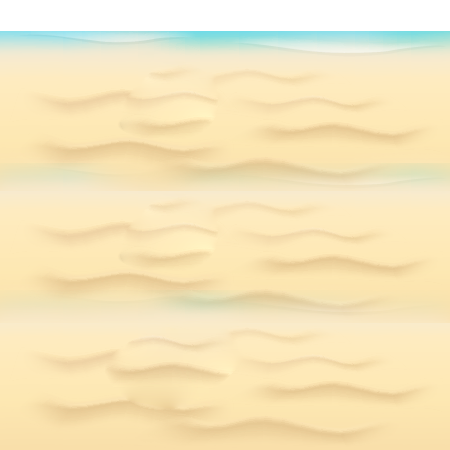
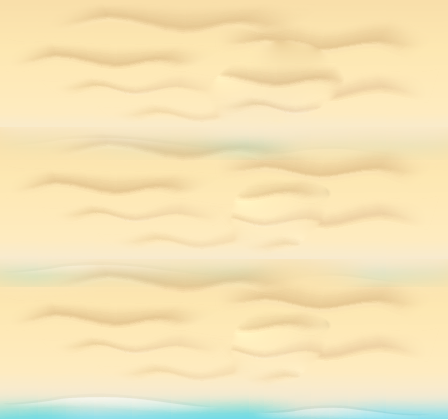
BugFix varias funciones simultaneas + altura lugares

diff --git a/js/ungrid.js b/js/ungrid.js
@@ -1,7 +1,14 @@
 const d = document
 let templateOn, template = ["archive","home","page"]
 
-function ungrid(namesArray,posXArray,posYArray,backgroundSelector,backgroundHeight) {
+function UnGrid(namesArray,posXArray,posYArray,backgroundSelector,backgroundHeight) {
+
+  this.namesArray = namesArray;
+  this.posXArray = posXArray;
+  this.posYArray = posYArray;
+  this.backgroundSelector = backgroundSelector;
+  this.backgroundHeight = backgroundHeight;
+
   // controla el template activo
   templateOn = template[1]
   //
@@ -10,43 +17,40 @@ function ungrid(namesArray,posXArray,posYArray,backgroundSelector,backgroundHeig
   let names = d.querySelectorAll("ul.products li a h3")
   let name,product,x,y,found,foundIndex
   // estilos base
-  d.querySelector(backgroundSelector).style.height = '100vh'
+  d.querySelector(backgroundSelector).style.minHeight = '100vh'
   // ejecuta el mapeo
   if (!on) {
 
     console.log("No se esta ejecutando UnGrid")
 
   } else if (on) {
-
-    console.log("Main Iter: " + i)
     //itera la cantidad de objetos que encuentre en el template
     for (var i = 0; i < names.length; i++) {
+      // products[i].style.transform = y
       // sueltalos
-      products[i].style.transition = "4s"
-      products[i].style.display = "none"
-      products[i].style.opacity = 0
+      products[i].style.transition = "1ss"
+      // products[i].style.display = "none"
+      // products[i].style.opacity = 0
       products[i].style.position = "absolute"
-      products[i].style.width = "90px"
+      products[i].style.width = "9%"
       name = names[i].innerHTML
-      // busca si el argumento se encuentra en el DOM
+      //
       found = namesArray.includes(name)// true or false
-      foundIndex = namesArray.indexOf(name)
+      foundIndex = namesArray.indexOf(name)// sequence index
       // itera sobre el grid
       if (found === false) {
 
         console.log(name + ": not found!");//debug
 
-      } else if (found === true) {//if object is found
+      } else if (found === true) {
 
-        x = "translateX("+ posXArray[foundIndex] +"%)"
-        y = "translateY("+ posYArray[foundIndex] +"%)"
+        x = "translateX("+ posXArray[foundIndex]+")"
+        y = posYArray[foundIndex]
         console.log("Found: " + names[i].innerHTML + "| Found Index: " + foundIndex);//debug
-        products[i].style.transition = "1s"
-        products[i].style.opacity = 1
-        products[i].style.bottom = "50px"
+        // products[i].style.opacity = 1
         products[i].style.display = "block"
+        products[i].style.bottom = y
         products[i].style.transform = x
-        products[i].style.transform = y
         foundIndex = foundIndex+1
       }
     }//endfor

diff --git a/css/custom.css b/css/custom.css
@@ -1,17 +1,79 @@
 /* Template Inicio */
+@import "https://stackpath.bootstrapcdn.com/bootstrap/4.1.3/css/bootstrap.min.css";
 #main-footer {
-    background-color: #222;
-    position: fixed;
-    width: 100%;
-    bottom: 0;
-    height: 50px;
+  background-color: #222;
+  /* position: fixed; */
+  width: 100%;
+  /* bottom: 0; */
+  height: 45px;
 }
 div#et-main-area .products li a h3 {
   text-align: center;
   font-weight: 100;
   font-size: 1em;
 }
+#mapa_playa {
+  position: relative;
+}
 .header-mar {
-  height: 160px;
+  height: 115px;
   width: 100%;
+  position: absolute;
+  bottom: -40px;
+  left:0;
+  z-index: -1;
+  /*  */
+  animation-name: mov;
+  animation-duration: 3s;
+  animation-iteration-count: infinite;
+  animation-direction: alternate;
+  animation-timing-function: ease-in-out;
+}
+.fondo-playa {
+  height: 100%;
+  width: 100%;
+  position: absolute;
+  top: 0;
+  left:0;
+  z-index: -1;
+}
+.et-social-icons {
+  margin-bottom: 0;
+}
+#footer-bottom {
+    padding: 4px 0 0;
+}
+.footer-social {
+  margin: 0;
+  padding: 6px 0 0;
+}
+.copyright {
+  color: whitesmoke;
+  padding: 9px 16px;
+  margin: 0;
+}
+/*  */
+/*  */
+// Animation
+@-webkit-keyframes mov {/* Safari 4.0 - 8.0 */
+  0% {
+    -webkit-transform: translate3d(0px,-2px,0px);
+    -moz-transform: translate3d(0px,-2px,0px);
+    -ms-transform: translate3d(0px,-2px,0px);
+    -o-transform: translate3d(0px,-2px,0px);
+  }
+  100% {
+    -webkit-transform: translate3d(0px,2px,0px);
+    -moz-transform: translate3d(0px,2px,0px);
+    -ms-transform: translate3d(0px,2px,0px);
+    -o-transform: translate3d(0px,2px,0px);
+  }
+}
+@keyframes mov {
+  0% {
+    transform: translate3d(0px,-2px,0px);
+  }
+  100% {
+    transform: translate3d(0px,2px,0px);
+  }
 }

diff --git a/js/custom.js b/js/custom.js
@@ -1,13 +1,13 @@
 // import {UnGrid} from '/js/ungrid.js';
 const row1 = [
   ["Bed VIP2","Bed A1","Bed A2","Bed A3","Bed A4","Bed A5","Bed A6","Bed A7","Bed VIP1"],
-  ['100','250','400','550','700','850','1000','1150','1300'],
-  ["100","200","300","400","500","600","700","700","900"]
+  ['100%','200%','300%','400%','500%','600%','700%','800%','900%'],
+  ["1%","1%","1%","1%","1%","1%","1%","1%","1%"]
 ]
 const row2 = [
-  ["Bed VIP2","Bed A1","Bed A2","Bed A3","Bed A4","Bed A5","Bed A6","Bed A7","Bed VIP1"],
-  ["0","100","200","300","400","500","600","700","800"],
-  ["100","100","100","100","100","100","100","100","100"]
+  ["Bed VIP4","Bed B1","Bed B2","Bed B3","Bed B4","Bed B5","Bed B6","Bed A7","Bed VIP3"],
+  ['100%','200%','300%','400%','500%','600%','700%','800%','900%'],
+  ["20%","40%","10%","20%","50%","40%","30%","20%","5%"]
 ]
 const row3 = [
   ["Bed VIP2","Bed A1","Bed A2","Bed A3","Bed A4","Bed A5","Bed A6","Bed A7","Bed VIP1"],
@@ -15,15 +15,15 @@ const row3 = [
   ["100","100","100","100","100","100","100","100","100"]
 ]
 const row4 = [
-  ["Bed VIP2","Bed A1","Bed A2","Bed A3","Bed A4","Bed A5","Bed A6","Bed A7","Bed VIP1"],
+  ["Bed VIP2","Bed B1","Bed B2","Bed B3","Bed B4","Bed B5","Bed B6","Bed B7","Bed VIP1"],
   ["0","100","200","300","400","500","600","700","800"],
   ["100","100","100","100","100","100","100","100","100"]
 ]
 
 jQuery(document).ready(() => {
-
-  ungrid(row1[0],row1[1],row1[2],"#mapa_playa")
-  // ungrid(row2[0],row2[1],row2[2],"#mapa_playa")
+  img()
+  let uno = new UnGrid(row1[0],row1[1],row1[2],"#mapa_playa")
+  let dos = new UnGrid(row2[0],row2[1],row2[2],"#mapa_playa")
   // ungrid(row3[0],row3[1],row3[2],"#mapa_playa")
   // ungrid(row4[0],row4[1],row4[2],"#mapa_playa")
 

diff --git a/footer.php b/footer.php
@@ -7,39 +7,25 @@
 if ( ! is_page_template( 'page-template-blank.php' ) ) : ?>
 
 			<footer id="main-footer">
-				<?php get_sidebar( 'footer' ); ?>
 
+<div class="container">
+	<div class="row">
+		<p class="copyright col-12 col-md-8 text-left alert">Copyright <?php echo date('Y'); ?> | Mahahual Q.Roo México</p>
+		<div class="col-12 col-md-4 align-right">
+			<ul class="footer-social row">
+				<li class="col-2 text-right et-social-icon et-social-facebook">
+					<a href="https://www.facebook.com/YayaBeach/" class="icon" target="_blank">
+					</a>
+				</li>
+				<li class="col-2 text-right et-social-icon et-social-instagram">
+					<a href="https://www.instagram.com/yayabeach/" class="icon" target="_blank">
+					</a>
+				</li>
+			</ul>
+		</div>
+	</div>
+</div>
 
-		<?php
-			if ( has_nav_menu( 'footer-menu' ) ) : ?>
-
-				<div id="et-footer-nav">
-					<div class="container">
-						<?php
-							wp_nav_menu( array(
-								'theme_location' => 'footer-menu',
-								'depth'          => '1',
-								'menu_class'     => 'bottom-nav',
-								'container'      => '',
-								'fallback_cb'    => '',
-							) );
-						?>
-					</div>
-				</div> <!-- #et-footer-nav -->
-
-			<?php endif; ?>
-
-				<div id="footer-bottom">
-					<div class="container clearfix">
-				<?php
-					if ( false !== et_get_option( 'show_footer_social_icons', true ) ) {
-						get_template_part( 'includes/social_icons', 'footer' );
-					}
-
-					echo et_get_footer_credits();
-				?>
-					</div>	<!-- .container -->
-				</div>
 			</footer> <!-- #main-footer -->
 		</div> <!-- #et-main-area -->
 
@@ -85,9 +71,9 @@ jQuery('document').ready(function(){
       });
 
     });
-});    
+});
 
-</script>	
-	
+</script>
+
 </body>
 </html>

diff --git a/inicio.php b/inicio.php
@@ -6,9 +6,14 @@ Template Name: Mapa YAYABeach
 get_header();
 
 ?>
-<section id="mapa_playa" class="ungrid">
-  <div class="header-mar imgLiquid imgLiquidFill">
-    <img src="<?php echo get_stylesheet_directory_uri(); ?> /img/YAYA_mar.png" alt="YayaBeach Club Mahahual">
+<section class="container">
+  <br>
+  <h1 class="col-12 text-center">Selecciona alguno de nuestros lugares</h1>
+</section>
+<section id="mapa_playa" class="ungrid container-fluid">
+
+  <div class="fondo-playa col-12 imgLiquid imgLiquidFill">
+    <img src="<?php echo get_stylesheet_directory_uri(); ?>/img/YAYA_arena.png" alt="YayaBeach Club Mahahual">
   </div>
 
   <?php
@@ -31,6 +36,9 @@ get_header();
     ?>
   </ul>
 
+  <div class="header-mar col-12 imgLiquid imgLiquidFill">
+    <img src="<?php echo get_stylesheet_directory_uri(); ?>/img/YAYA_mar.chico.png" alt="YayaBeach Club Mahahual">
+  </div>
 </section>
 <?php
 endif;
